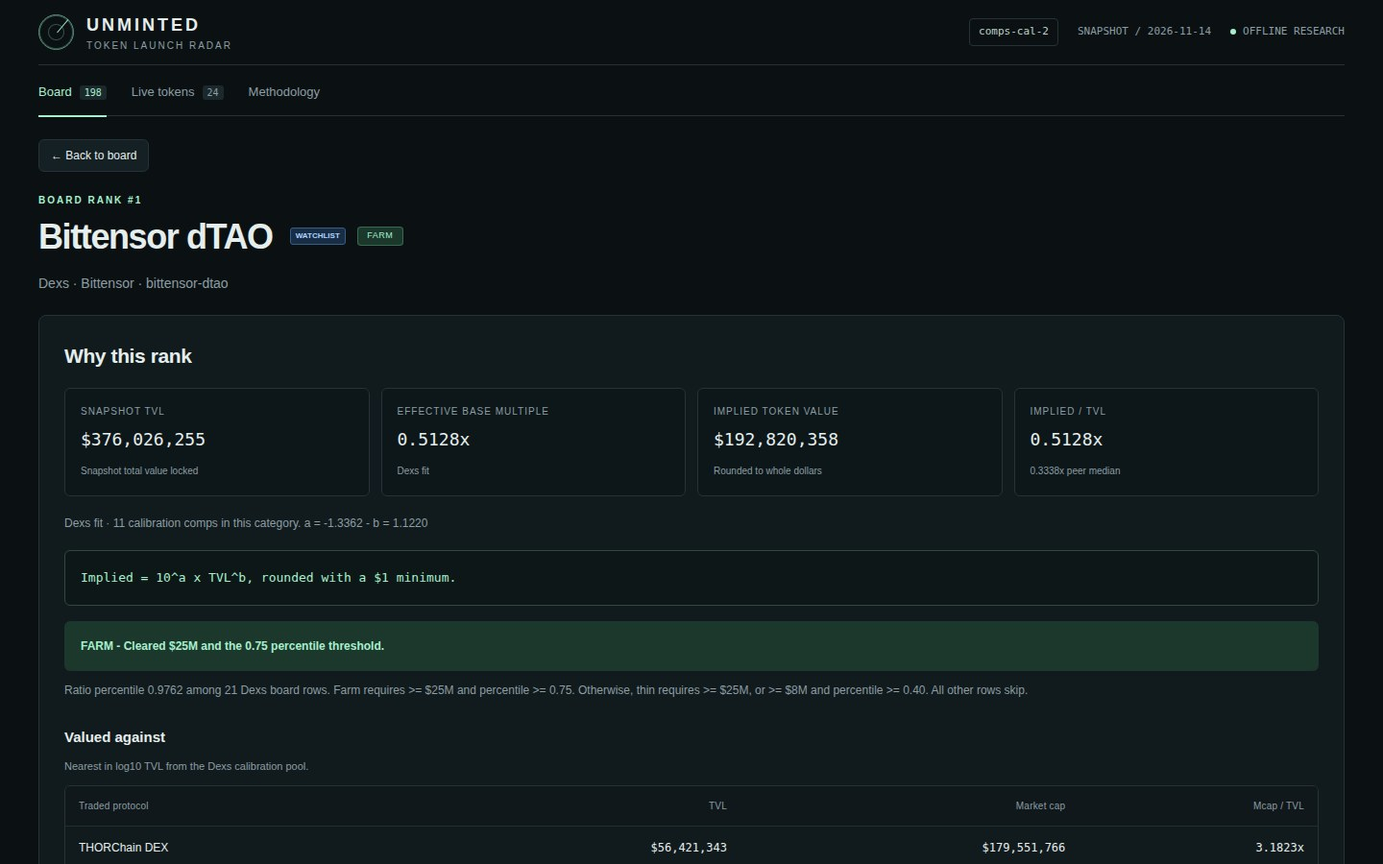
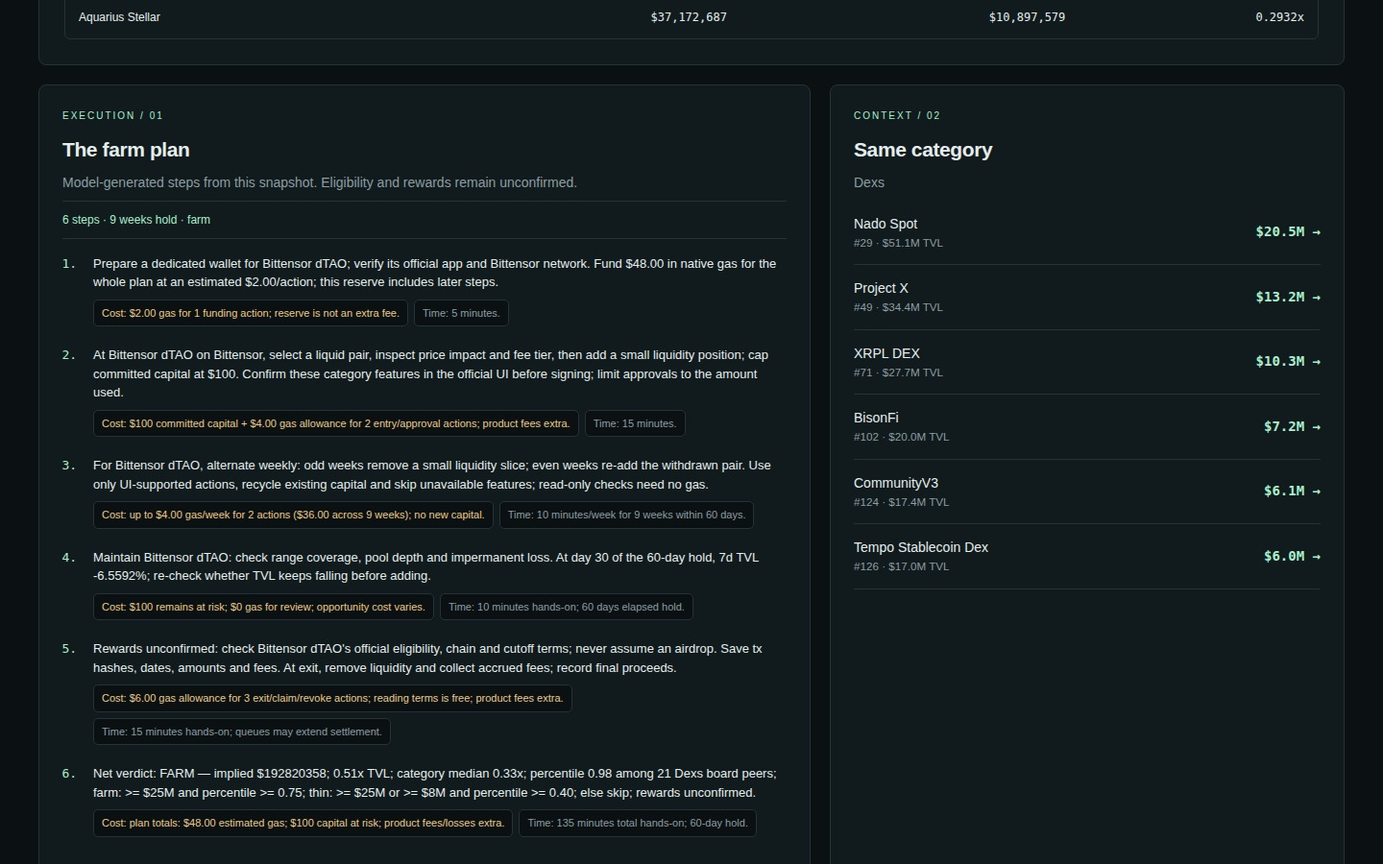
v5: farm playbook rewrite (24 categories, per-chain gas, mid-course review), compare tray + CSV export, farm-panel detail screenshot

diff --git a/dashboard/app.js b/dashboard/app.js
@@ -3,7 +3,7 @@
 const D=window.RADAR, root=document.getElementById('app');
 if(!D){root.textContent='Snapshot data is missing. Run main.ts and open the generated dashboard.';return;}
 const M=D.methodology, P=new URLSearchParams(location.search);
-const state={view:P.get('view')||'board',slug:P.get('slug'),category:P.get('category')||'all',chain:'all',verdict:'all',watch:P.get('watchlist')==='1',q:'',sort:'rank',dir:1};
+const state={view:P.get('view')||'board',slug:P.get('slug'),category:P.get('category')||'all',chain:'all',verdict:'all',watch:P.get('watchlist')==='1',q:'',sort:'rank',dir:1,pins:[]};
 const money=n=>n==null||!Number.isFinite(n)?'—':Math.abs(n)>=1e9?'$'+(n/1e9).toFixed(2)+'B':Math.abs(n)>=1e6?'$'+(n/1e6).toFixed(1)+'M':Math.abs(n)>=1e3?'$'+(n/1e3).toFixed(1)+'K':'$'+n.toFixed(0);
 const exactMoney=n=>n==null||!Number.isFinite(n)?'—':n.toLocaleString('en-US',{style:'currency',currency:'USD',minimumFractionDigits:0,maximumFractionDigits:20});
 const fixedTimes=n=>n.toFixed(4)+'x';
@@ -25,11 +25,38 @@ function head(title,caption){return el('div','section-head',null,el('h2','',titl
 function selectField(label,values,value,change){const sel=el('select');values.forEach(([v,t])=>{const o=el('option','',t);o.value=v;sel.append(o);});sel.value=value;sel.setAttribute('aria-label',label);sel.onchange=()=>change(sel.value);return el('div','field',null,el('label','',label),sel);}
 const categories=[...new Set(D.rows.map(r=>r.category))].sort((a,b)=>String(a).localeCompare(String(b)));
 const chains=[...new Set(D.rows.flatMap(r=>r.chains))].sort();
+function planParts(text){
+const parts={action:''};let key='action',start=0;
+for(const match of String(text||'').matchAll(/\b(Cost|Time)\s*:\s*/gi)){parts[key]=String(text).slice(start,match.index).trim();key=match[1].toLowerCase();start=match.index+match[0].length;}
+parts[key]=String(text||'').slice(start).trim();return parts;
+}
+function planSummary(r){const steps=r.farm_steps||[],text=steps.join(' ');const weeks=text.match(/\b(\d+)\s*weeks?\b/i),days=text.match(/\b(\d+)[ -]days?\s+(?:elapsed\s+)?hold\b/i);return `${steps.length} steps · ${weeks?weeks[1]+' weeks hold':days?Math.ceil(Number(days[1])/7)+' weeks hold':'Hold not specified'} · ${r.verdict}`;}
+function downloadCSV(rows){
+const fields=['rank','name','slug','category','chains','tvl_usd','change_7d','age_days','implied_value_usd','verdict','farm_steps'];
+const quote=value=>'"'+String(value??'').replace(/"/g,'""')+'"';
+const csv=[fields.join(','),...rows.map(r=>fields.map(k=>quote(Array.isArray(r[k])?r[k].join(k==='farm_steps'?' | ':'; '):r[k])).join(','))].join('\r\n');
+const link=document.createElement('a'),objectURL=URL.createObjectURL(new Blob(['\ufeff',csv],{type:'text/csv;charset=utf-8'}));
+link.href=objectURL;link.download='unminted-board.csv';document.body.append(link);link.click();link.remove();setTimeout(()=>URL.revokeObjectURL(objectURL),1000);
+}
+function compareTray(update){
+const tray=el('section','compare-tray');tray.setAttribute('aria-label','Pinned protocol comparison');
+if(!state.pins.length)return tray;
+const clear=button('Clear',()=>{state.pins=[];update();},'board-action');clear.setAttribute('aria-label','Clear all compared protocols');
+tray.append(el('div','compare-heading',null,el('h2','',`Compare · ${state.pins.length} / 3`),clear));
+const cards=el('div','compare-cards');
+state.pins.forEach(slug=>{const r=D.rows.find(r=>r.slug===slug);if(!r)return;
+const remove=button('×',()=>{state.pins=state.pins.filter(s=>s!==slug);update();},'compare-remove');remove.setAttribute('aria-label','Remove '+r.name+' from comparison');
+const card=el('article','compare-card',null,el('div','compare-heading',null,el('h3','',r.name),remove)),facts=el('dl');
+const steps=r.farm_steps||[],cost=planParts(steps[steps.length-1]).cost;
+[['Rank','#'+r.rank],['Category',r.category||'Uncategorized'],['TVL',money(r.tvl_usd)],['7d %',pct(r.change_7d)],['Age',age(r.age_days)],['Implied value',money(r.implied_value_usd)],['Implied / TVL',times(r.implied_value_usd/r.tvl_usd)],['Verdict',r.verdict],['Total plan cost',cost||r.verdict]].forEach(([label,value])=>facts.append(el('div','',null,el('dt','',label),el('dd','',value))));
+card.append(facts);cards.append(card);});tray.append(cards);return tray;
+}
 function board(main){main.append(head('Pre-token board','DEFAULT RANK / IMPLIED VALUE'));const controls=el('div','filters');const search=el('input');search.type='search';search.placeholder='Search protocol or slug…';search.value=state.q;search.setAttribute('aria-label','Search protocol or slug');controls.append(el('div','field',null,el('label','','SEARCH'),search));
-const refresh=()=>{url();update();};controls.append(selectField('CATEGORY',[['all','All categories'],...categories.map(c=>[c??'',c??'Uncategorized'])],state.category,v=>{state.category=v;refresh();}),selectField('CHAIN',[['all','All chains'],...chains.map(c=>[c,c])],state.chain,v=>{state.chain=v;refresh();}),selectField('VERDICT',[['all','All verdicts'],['farm','Farm'],['thin','Thin'],['skip','Skip']],state.verdict,v=>{state.verdict=v;refresh();}));const check=el('input');check.type='checkbox';check.checked=state.watch;check.onchange=()=>{state.watch=check.checked;refresh();};controls.append(el('label','check',null,check,document.createTextNode('Watchlist only')));main.append(controls);const target=el('div');main.append(target);search.oninput=()=>{state.q=search.value;update();};
+const refresh=()=>{url();update();};controls.append(selectField('CATEGORY',[['all','All categories'],...categories.map(c=>[c??'',c??'Uncategorized'])],state.category,v=>{state.category=v;refresh();}),selectField('CHAIN',[['all','All chains'],...chains.map(c=>[c,c])],state.chain,v=>{state.chain=v;refresh();}),selectField('VERDICT',[['all','All verdicts'],['farm','Farm'],['thin','Thin'],['skip','Skip']],state.verdict,v=>{state.verdict=v;refresh();}));const check=el('input');check.type='checkbox';check.checked=state.watch;check.onchange=()=>{state.watch=check.checked;refresh();};controls.append(el('label','check',null,check,document.createTextNode('Watchlist only')));let visibleRows=[];const download=button('Download CSV',()=>downloadCSV(visibleRows),'board-action');download.setAttribute('aria-label','Download filtered and sorted board as CSV');controls.append(download);main.append(controls);const target=el('div');main.append(target);search.oninput=()=>{state.q=search.value;update();};
 function update(){const q=state.q.trim().toLowerCase();let rows=D.rows.filter(r=>(!q||r.name.toLowerCase().includes(q)||r.slug.toLowerCase().includes(q))&&(state.category==='all'||(r.category??'')===state.category)&&(state.chain==='all'||r.chains.includes(state.chain))&&(state.verdict==='all'||r.verdict===state.verdict)&&(!state.watch||r.watchlist));
 const val=r=>state.sort==='ratio'?r.implied_value_usd/r.tvl_usd:state.sort==='chains'?r.chains.join(', '):r[state.sort];rows.sort((a,b)=>{let x=val(a),y=val(b);if(x==null)return y==null?a.rank-b.rank:1;if(y==null)return -1;return (typeof x==='string'?x.localeCompare(y):x-y)*state.dir||a.rank-b.rank;});
-const cols=[['rank','Rank'],['name','Protocol'],['category','Category'],['chains','Chains'],['tvl_usd','TVL'],['change_7d','7d %'],['age_days','Age'],['implied_value_usd','Implied value'],['ratio','Implied / TVL'],['verdict','Verdict']];const table=el('table');const tr=el('tr');cols.forEach(([k,title],i)=>{const th=el('th',i>=4&&i<=8?'numeric':'');th.scope='col';th.setAttribute('aria-sort',state.sort===k?(state.dir===1?'ascending':'descending'):'none');th.append(button(title+(state.sort===k?(state.dir===1?' ↑':' ↓'):' ↕'),()=>{state.dir=state.sort===k?-state.dir:1;state.sort=k;update();}));tr.append(th);});table.append(el('thead','',null,tr));const body=el('tbody');rows.forEach(r=>{const row=el('tr');row.onclick=e=>{if(!e.target.closest('button'))go('detail',r.slug);};const name=button(r.name,()=>go('detail',r.slug));if(r.watchlist)name.append(el('span','wl','WATCHLIST'));name.append(el('span','slug',r.slug));row.append(el('td','rank mono',String(r.rank).padStart(2,'0')),el('td','',null,el('div','protocol',null,el('span','avatar',r.name.slice(0,2).toUpperCase()),name)),el('td','category',r.category||'Uncategorized'),el('td','chains',r.chains.join(' · ')||'—'),el('td','num',money(r.tvl_usd)),el('td','num '+(r.change_7d>=0?'pos':'neg'),pct(r.change_7d)),el('td','num',age(r.age_days)),el('td','num value',money(r.implied_value_usd)),ratioCell(r),el('td','',null,pill(r.verdict)));body.append(row);});table.append(body);const wrap=el('div','table-wrap board-table',null,table);if(!rows.length)wrap.append(el('div','empty','No protocols match these filters. Adjust your search to widen the radar.'));const note=el('div','table-note',null,el('span','mono',`${rows.length} of ${D.board_size} protocols · ${rows.filter(r=>r.watchlist).length} watchlist`),el('span','','Center tick marks the peer median. Select a protocol for valuation evidence & farm plan →'));note.setAttribute('aria-live','polite');target.replaceChildren(wrap,note);}
+visibleRows=rows;
+const cols=[['rank','Rank'],['name','Protocol'],['category','Category'],['chains','Chains'],['tvl_usd','TVL'],['change_7d','7d %'],['age_days','Age'],['implied_value_usd','Implied value'],['ratio','Implied / TVL'],['verdict','Verdict']];const table=el('table');const tr=el('tr');cols.forEach(([k,title],i)=>{const th=el('th',i>=4&&i<=8?'numeric':'');th.scope='col';th.setAttribute('aria-sort',state.sort===k?(state.dir===1?'ascending':'descending'):'none');th.append(button(title+(state.sort===k?(state.dir===1?' ↑':' ↓'):' ↕'),()=>{state.dir=state.sort===k?-state.dir:1;state.sort=k;update();}));tr.append(th);});const compareHeader=el('th','','Compare');compareHeader.scope='col';tr.append(compareHeader);table.append(el('thead','',null,tr));const body=el('tbody');rows.forEach(r=>{const row=el('tr');row.onclick=e=>{if(!e.target.closest('button'))go('detail',r.slug);};const name=button(r.name,()=>go('detail',r.slug));if(r.watchlist)name.append(el('span','wl','WATCHLIST'));name.append(el('span','slug',r.slug));row.append(el('td','rank mono',String(r.rank).padStart(2,'0')),el('td','',null,el('div','protocol',null,el('span','avatar',r.name.slice(0,2).toUpperCase()),name)),el('td','category',r.category||'Uncategorized'),el('td','chains',r.chains.join(' · ')||'—'),el('td','num',money(r.tvl_usd)),el('td','num '+(r.change_7d>=0?'pos':'neg'),pct(r.change_7d)),el('td','num',age(r.age_days)),el('td','num value',money(r.implied_value_usd)),ratioCell(r),el('td','',null,pill(r.verdict)));const pinned=state.pins.includes(r.slug),toggle=button(pinned?'✓ Pinned':'+ Compare',e=>{e.stopPropagation();if(pinned)state.pins=state.pins.filter(s=>s!==r.slug);else if(state.pins.length<3)state.pins.push(r.slug);update();},'compare-toggle');toggle.setAttribute('aria-label',(pinned?'Remove ':'Compare ')+r.name);toggle.setAttribute('aria-pressed',String(pinned));toggle.disabled=!pinned&&state.pins.length>=3;if(toggle.disabled)toggle.title='Remove a pinned protocol to compare another (maximum 3)';row.append(el('td','',null,toggle));body.append(row);});table.append(body);const wrap=el('div','table-wrap board-table',null,table);if(!rows.length)wrap.append(el('div','empty','No protocols match these filters. Adjust your search to widen the radar.'));const note=el('div','table-note',null,el('span','mono',`${rows.length} of ${D.board_size} protocols · ${rows.filter(r=>r.watchlist).length} watchlist`),el('span','','Center tick marks the peer median. Select a protocol for valuation evidence & farm plan →'));note.setAttribute('aria-live','polite');target.replaceChildren(wrap,note,compareTray(update));}
 update();}
 function live(main){main.append(head('The traded universe','MARKET VALUES / '+D.live_size+' DISPLAYED'),el('p','',`These protocols already trade, so we show the market’s own values. They belong to the calibration universe of ${M.calibration_n} comparable tokens; this table is its top-market-cap subset.`));const table=el('table');table.append(el('thead','',null,el('tr','',null,...['Protocol','Category','TVL','Market cap','mcap / TVL','7d %'].map(t=>el('th','',t)))));const body=el('tbody');D.live.forEach(r=>body.append(el('tr','',null,el('td','',r.name),el('td','category',r.category||'Uncategorized'),el('td','num',money(r.tvl_usd)),el('td','num value',money(r.mcap_usd)),el('td','num',times(r.mcap_usd==null?null:r.mcap_usd/r.tvl_usd)),el('td','num '+(r.change_7d>=0?'pos':'neg'),pct(r.change_7d)))));table.append(body);main.append(el('div','table-wrap',null,table));}
 const thresholds='Farm requires >= $25M and percentile >= 0.75. Otherwise, thin requires >= $25M, or >= $8M and percentile >= 0.40. All other rows skip.';
@@ -50,7 +77,7 @@ overview.append(factors,el('p','fit-line',`${fitLabel} · ${fit.category_n} cali
 const comps=el('section','valued-against',null,el('h3','','Valued against'),el('p','caption',`Nearest in log10 TVL from the ${fit.global?'global':category} calibration pool.`));
 const table=el('table','comp-table',null,el('thead','',null,el('tr','',null,...['Traded protocol','TVL','Market cap','Mcap / TVL'].map(t=>el('th','',t)))),el('tbody','',null,...r.nearest_comps.map(c=>el('tr','',null,el('td','',c.name),el('td','num',exactMoney(c.tvl_usd)),el('td','num',exactMoney(c.mcap_usd)),el('td','num',fixedTimes(c.mcap_tvl_ratio))))));
 comps.append(el('div','table-wrap',null,table));overview.append(comps);main.append(overview);
-const grid=el('div','grid');grid.style.marginTop='20px';const plan=el('section','panel',null,el('div','index','EXECUTION / 01'),el('h2','','The farm plan'),el('p','','Model-generated steps from this snapshot. Eligibility and rewards remain unconfirmed.'));const steps=el('ol','steps');(r.farm_steps||[]).forEach(s=>{const i=s.indexOf(' Cost:');steps.append(el('li','',null,document.createTextNode(i<0?s:s.slice(0,i)),i<0?null:el('span','step-cost',s.slice(i+1))));});plan.append(steps);const peers=el('section','panel',null,el('div','index','CONTEXT / 02'),el('h2','','Same category'),el('p','',r.category||'Uncategorized'));const list=D.rows.filter(p=>p.slug!==r.slug&&p.category===r.category).sort((a,b)=>a.rank-b.rank).slice(0,6);list.forEach(p=>{const b=button('',()=>go('detail',p.slug),'peer');b.append(el('span','',null,document.createTextNode(p.name),el('small','','#'+p.rank+' · '+money(p.tvl_usd)+' TVL')),el('span','mono value',money(p.implied_value_usd)+' →'));peers.append(b);});if(!list.length)peers.append(el('p','','No other board protocols in this category.'));grid.append(plan,peers);main.append(grid);}
+const grid=el('div','grid');grid.style.marginTop='20px';const plan=el('section','panel',null,el('div','index','EXECUTION / 01'),el('h2','','The farm plan'),el('p','','Model-generated steps from this snapshot. Eligibility and rewards remain unconfirmed.'));plan.append(el('p','plan-summary',planSummary(r)));const steps=el('ol','steps');(r.farm_steps||[]).forEach(s=>{const parts=planParts(s);steps.append(el('li','',null,document.createTextNode(parts.action),el('div','step-chips',null,parts.cost?el('span','step-cost','Cost: '+parts.cost):null,parts.time?el('span','step-time','Time: '+parts.time):null)));});plan.append(steps);const peers=el('section','panel',null,el('div','index','CONTEXT / 02'),el('h2','','Same category'),el('p','',r.category||'Uncategorized'));const list=D.rows.filter(p=>p.slug!==r.slug&&p.category===r.category).sort((a,b)=>a.rank-b.rank).slice(0,6);list.forEach(p=>{const b=button('',()=>go('detail',p.slug),'peer');b.append(el('span','',null,document.createTextNode(p.name),el('small','','#'+p.rank+' · '+money(p.tvl_usd)+' TVL')),el('span','mono value',money(p.implied_value_usd)+' →'));peers.append(b);});if(!list.length)peers.append(el('p','','No other board protocols in this category.'));grid.append(plan,peers);main.append(grid);}
 function scatter(){const points=M.scatter.points,l=M.scatter.line,xs=points.map(p=>p[0]),ys=points.map(p=>p[1]);const xmin=Math.min(...xs,l.x1),xmax=Math.max(...xs,l.x2),ymin=Math.min(...ys,l.y1,l.y2),ymax=Math.max(...ys,l.y1,l.y2);const x=v=>55+365*(v-xmin)/(xmax-xmin||1),y=v=>225-200*(v-ymin)/(ymax-ymin||1);const box=el('figure','scatter');box.innerHTML=`<svg viewBox="0 0 450 280" role="img" aria-label="Traded comps and global fit"><path d="M55 25V225H420" fill="none" stroke="currentColor"/><g fill="currentColor" font-size="10"><text x="55" y="243">${xmin.toFixed(2)}</text><text x="420" y="243" text-anchor="end">${xmax.toFixed(2)}</text><text x="48" y="225" text-anchor="end">${ymin.toFixed(2)}</text><text x="48" y="30" text-anchor="end">${ymax.toFixed(2)}</text><text x="235" y="270" text-anchor="middle">log10 TVL</text><text transform="translate(12 125) rotate(-90)" text-anchor="middle">log10 market cap</text></g><g fill="var(--mint)" opacity=".55">${points.map(p=>`<circle cx="${x(p[0])}" cy="${y(p[1])}" r="2.4"/>`).join('')}</g><path d="M${x(l.x1)} ${y(l.y1)}L${x(l.x2)} ${y(l.y2)}" stroke="var(--amber)" stroke-width="2"/></svg>`;box.append(el('figcaption','caption','Each dot is one traded comp; the line is the global fit.'));return box;}
 function method(main){main.append(head('Inside the model',M.model_version||D.model_version));const grid=el('div','method');
 function panel(title,...content){const p=el('section','panel',null,el('h2','',title),...content);grid.append(p);return p;}

diff --git a/lib/model.ts b/lib/model.ts
@@ -314,38 +314,72 @@ function select(calibration: SnapshotProtocol[], asOf: string) {
     weight: definition.overlay === 'g50m' ? 0.5 : definition.overlay === 'g25m' ? 0.25 : 0,
     enabled: definition.overlay === 'g50m' || definition.overlay === 'g25m', candidates: candidates.map(reported)};
 }
-/** Category actions describe a small position; the snapshot alone cannot establish reward eligibility. */
-function actionFor(p: SnapshotProtocol, capital: number, chain: string): string {
+/** Category playbooks are conditional on the official UI; snapshot categories do not prove features or rewards. */
+function actionFor(p: SnapshotProtocol, capital: number, chain: string) {
   const c = (p.category ?? '').toLowerCase();
-  const target = `${p.name} on ${chain}`;
-  if (/lend|cdp|collateral/.test(c)) return `Supply $${capital} of eligible collateral through ${target}; check borrowing terms before borrowing`;
-  if (/curator|vault|allocator/.test(c)) return `Deposit $${capital} into an eligible vault at ${target} and retain its shares`;
-  if (/dex|yield|farm/.test(c)) return `Add $${capital} to a supported liquidity or yield position at ${target}`;
-  if (/bridge/.test(c)) return `Transfer $${capital} through ${target} after checking destination liquidity`;
-  if (/stak|restak/.test(c)) return `Stake $${capital} of a supported asset through ${target} and retain the receipt`;
-  if (/perpetual|derivative/.test(c)) return `Fund a $${capital} margin account at ${target} and test a small hedged position`;
-  if (/prediction/.test(c)) return `Fund ${target} with $${capital} and take a small position in a market you understand`;
-  if (/stable/.test(c)) return `Deposit or mint $${capital} of a supported stable asset through ${target}`;
-  if (/rwa|real world/.test(c)) return `Check access requirements and acquire $${capital} of an eligible asset at ${target}`;
-  if (/insurance/.test(c)) return `Compare exclusions and purchase a small cover policy using a $${capital} budget at ${target}`;
-  return `Use $${capital} in a supported deposit position at ${target} after reading its withdrawal terms`;
+  const play = (entry: string, first: string, second: string, maintain: string, exit: string) => ({
+    entry: `At ${p.name} on ${chain}, ${entry}; cap committed capital at $${capital}`,
+    first, second, maintain, exit,
+  });
+  if (/uncollateralized/.test(c)) return play('supply to an eligible credit pool after checking borrower and default terms', 'review borrower repayments', 'review pool utilization', 'check arrears and redemption gates', 'request redemption within the pool notice window');
+  if (/cdp/.test(c)) return play('deposit eligible collateral; inspect liquidation ratio before any optional mint', 'review collateral headroom', 'review debt and stability fees', 'keep debt below the liquidation threshold; avoid leverage', 'repay any minted debt before withdrawing collateral');
+  if (/lend|collateral/.test(c)) return play('supply an eligible asset after checking caps and withdrawal liquidity; leave borrowing disabled', 'withdraw a small slice', 'resupply that slice', 'check utilization, supply rates and collateral settings', 'withdraw supply; repay any debt first');
+  if (/option/.test(c)) return play('inspect expiry and maximum loss; use only a defined-risk option or vault allocation', 'review expiry and exercise terms', 'review premium and settlement quotes', 'track expiry and any vault lockup', 'settle or close before expiry, then redeem available funds');
+  if (/curator|vault|allocator/.test(c)) return play('deposit into a supported vault after inspecting allocations, fees and redemption queues', 'redeem a small share tranche', 'redeposit the redeemed assets', 'track share value, allocation changes and queue length', 'request share redemption and complete any queued claim');
+  if (/liquidity manager|dex/.test(c)) return play('select a liquid pair, inspect price impact and fee tier, then add a small liquidity position', 'remove a small liquidity slice', 're-add the withdrawn pair', 'check range coverage, pool depth and impermanent loss', 'remove liquidity and collect accrued fees');
+  if (/leveraged farm/.test(c)) return play('choose an unlevered farm position if available; inspect debt and liquidation terms', 'review debt exposure', 'review underlying pool liquidity', 'keep leverage disabled and inspect withdrawal penalties', 'unwind the farm and settle any debt before withdrawal');
+  if (/yield|farm/.test(c)) return play('deposit into a supported yield pool after separating base yield from incentives', 'withdraw a small tranche', 'redeposit the withdrawn tranche', 'check reward expiry, deposit fees and withdrawal locks', 'unstake or redeem the position and collect earned balances');
+  if (/bridge/.test(c)) return play('quote a supported route and verify destination liquidity and recipient before transfer', 'review route fees', 'verify destination receipt and finality', 'track pending transfers and destination liquidity', 'quote a return route separately; destination gas is additional');
+  if (/stak|restak/.test(c)) return play('stake a supported asset after checking slashing and unbonding rules; retain the receipt', 'review receipt exchange rate', 'review validator or operator status', 'monitor slashing exposure and unbonding queues', 'request unstaking and claim after the cooldown');
+  if (/perpetual|derivative|basis trading|synthetic/.test(c)) return play('fund supported collateral; size any test trade within the budget and avoid leverage', 'review funding and basis', 'review close quotes and margin headroom', 'check funding costs, liquidation distance and open orders', 'cancel orders, close exposure and withdraw margin');
+  if (/prediction/.test(c)) return play('inspect resolution rules and buy a small position in a market you understand', 'review resolution evidence', 'review an exit quote', 'check market depth and dispute deadlines', 'sell if liquid or redeem after final resolution');
+  if (/nft|marketplace/.test(c)) return play('verify collection or asset identity, royalties and executable bids before a small purchase', 'review comparable executable bids', 'review listing and royalty terms', 'track liquidity; avoid self-trades and inflated floor prices', 'cancel stale listings; sell only against an acceptable bid');
+  if (/gaming|game/.test(c)) return play('use a supported game asset or entry only after checking ownership and refund rules', 'complete a supported gameplay session', 'use a different supported game mode', 'track asset utility and withdrawal restrictions', 'redeem refundable balances and cancel market listings');
+  if (/oracle/.test(c)) return play('inspect a supported data service; allocate only to documented usage or staking', 'inspect feed freshness', 'compare feed deviation against its reference', 'check heartbeat, service charges and any slash conditions', 'cancel service renewals or follow documented unstaking');
+  if (/privacy/.test(c)) return play('test a supported private deposit after checking withdrawal denominations; back up recovery material offline', 'verify deposit status', 'review withdrawal proof requirements', 'retain recovery material and verify withdrawal availability', 'withdraw using the saved recovery material; never share secrets');
+  if (/wallet|infra|chain/.test(c)) return play('verify network settings and use a documented wallet or network feature with a small funded balance', 'send a small transfer between your own addresses', 'test the return transfer', 'check receipts, network status and token approvals', 'return unused balances and revoke unused approvals');
+  if (/social/.test(c)) return play('set up a profile and use a documented paid feature only if useful', 'publish an original post', 'reply meaningfully to another post', 'review permissions and recurring charges', 'cancel renewals and withdraw any refundable balance');
+  if (/\bai\b|artificial intelligence/.test(c)) return play('test a documented agent or inference service; cap prepaid usage and restrict wallet permissions', 'run a small supported inference task', 'evaluate its output on a second task', 'check usage charges and agent spending permissions', 'disable agent permissions and withdraw refundable credits');
+  if (/stable/.test(c)) return play('inspect backing and redemption fees before acquiring or minting a supported stable asset', 'review the redemption quote', 'review backing and peg data', 'track peg deviation and redemption queues', 'redeem through the documented route; settle any mint debt');
+  if (/rwa|real world/.test(c)) return play('check access requirements, issuer exposure and settlement terms before acquiring an eligible asset', 'review issuer disclosures', 'review redemption availability', 'track settlement windows and issuer restrictions', 'submit redemption before the dealing cutoff');
+  if (/insurance/.test(c)) return play('compare exclusions, coverage dates and claim evidence before buying cover within budget', 'review covered exposure', 'review claims and exclusions', 'check coverage expiry and evidence requirements', 'cancel renewal; claim only for a qualifying loss');
+  if (/payment|card/.test(c)) return play('inspect fees and refund terms before funding a supported payment balance', 'make a small useful payment', 'review settlement and refund status', 'track merchant fees and remaining balance', 'withdraw unused funds and cancel recurring payments');
+  if (/index/.test(c)) return play('inspect constituents, rebalance rules and redemption fees before buying index shares', 'review constituent weights', 'review redemption quotes', 'track concentration and rebalance costs', 'redeem shares through the documented route');
+  return play('verify a documented core feature and withdrawal terms before allocating funds; do not assume deposits exist', 'review the core feature receipt', 'review the documented exit quote', 'check permissions, lockups and exit liquidity', 'follow the documented exit and revoke unused approvals');
 }
+/** Planning estimates in USD per action, not live fee quotes. Keys match snapshot chain names. */
+const FARM_GAS: Record<string, number> = {
+  Ethereum: 8, Arbitrum: 0.50, Base: 0.30, Optimism: 0.50, Unichain: 0.30,
+  Linea: 0.50, Scroll: 0.50, 'zkSync Era': 0.50, 'Polygon zkEVM': 0.50,
+  Mantle: 0.30, Blast: 0.50, Mode: 0.50, Metis: 0.50, Soneium: 0.30,
+  'X Layer': 0.30, Ink: 0.30, Fraxtal: 0.30, Boba: 0.50, Morph: 0.50,
+  MegaETH: 0.30, Solana: 0.05, BSC: 0.20, Binance: 0.20, Polygon: 0.20, POLYGON: 0.20,
+};
 function farmSteps(row: BoardRow, defaultAge: number, categoryReference: boolean): string[] {
   const chain = row.chains[0] ?? 'its primary chain';
   const capital = row.tvl_usd >= 5e9 ? 250 : row.tvl_usd >= 1e9 ? 150 : row.tvl_usd >= 1e8 ? 100 : 50;
   const age = row.age_days ?? defaultAge;
   const hold = age < 180 ? 60 : age < 365 ? 45 : 30;
   const weeks = Math.ceil(hold / 7);
-  const gas = capital >= 150 ? 8 : 4;
-  const costs = 3 + gas + 2 * weeks;
+  const gas = Object.hasOwn(FARM_GAS, chain) ? FARM_GAS[chain]! : 2;
+  const prepGas = gas, entryGas = 2*gas, weeklyGas = 2*gas, exitGas = 3*gas;
+  const costs = prepGas+entryGas+weeklyGas*weeks+exitGas;
+  const prepMinutes = 5, entryMinutes = 15, weeklyMinutes = 10, reviewMinutes = 10, exitMinutes = 15;
+  const minutes = prepMinutes+entryMinutes+weeklyMinutes*weeks+reviewMinutes+exitMinutes;
+  const usd = (n: number) => `$${n.toFixed(2)}`;
+  const play = actionFor(row, capital, chain);
+  const trend = row.change_7d === null ? "7d TVL change is unreported; verify on the protocol's own page" :
+    row.change_7d < 0 ? `7d TVL ${row.change_7d}%; re-check whether TVL keeps falling before adding` :
+    row.change_7d > 0 ? `7d TVL +${row.change_7d}%; momentum supports holding if liquidity remains sound` :
+    '7d TVL is flat; verify liquidity before adding';
   const step = (action: string, cost: string, time: string) => `${action}. Cost: ${cost}. Time: ${time}.`;
   return [
-    step(`Prepare a dedicated wallet for ${row.name} and fund gas on ${chain}`, 'about $3 gas plus the position budget', '5 minutes'),
-    step(actionFor(row, capital, chain), `$${capital} committed capital and about $${gas} gas`, '15 minutes'),
-    step(`Review ${row.name}'s activity requirements and perform one supported action on ${chain} each week`, 'budget $2 gas weekly', `10 minutes weekly for ${weeks} weeks`),
-    step(`Maintain the ${row.name} position and monitor withdrawal liquidity`, `$${capital} at risk, with variable opportunity cost`, `${hold} days`),
-    step(`Check ${row.name}'s official rewards terms, log transactions and plan an orderly withdrawal`, 'no fee to read terms; withdrawal gas varies', '10 minutes'),
-    step(`Net verdict: ${row.verdict.toUpperCase()} — implied $${row.implied_value_usd}; ${row.verdict_basis.ratio.toFixed(2)}x TVL; category median ${row.verdict_basis.category_median_ratio.toFixed(2)}x; percentile ${row.verdict_basis.ratio_percentile.toFixed(2)} among ${row.verdict_basis.reference_n} ${categoryReference ? (row.category ?? 'Uncategorized') : 'whole-board'} board peers${categoryReference ? '' : ' (category under 5)'}; farm: >= $25M and percentile >= 0.75; thin: >= $25M or >= $8M and percentile >= 0.40; else skip; rewards unconfirmed`, `roughly $${costs}, excluding capital losses`, `${weeks} weeks`),
+    step(`Prepare a dedicated wallet for ${row.name}; verify its official app and ${chain} network. Fund ${usd(costs)} in native gas for the whole plan at an estimated ${usd(gas)}/action; this reserve includes later steps`, `${usd(prepGas)} gas for 1 funding action; reserve is not an extra fee`, `${prepMinutes} minutes`),
+    step(`${play.entry}. Confirm these category features in the official UI before signing; limit approvals to the amount used`, `$${capital} committed capital + ${usd(entryGas)} gas allowance for 2 entry/approval actions; product fees extra`, `${entryMinutes} minutes`),
+    step(`For ${row.name}, alternate weekly: odd weeks ${play.first}; even weeks ${play.second}. Use only UI-supported actions, recycle existing capital and skip unavailable features; read-only checks need no gas`, `up to ${usd(weeklyGas)} gas/week for 2 actions (${usd(weeklyGas*weeks)} across ${weeks} weeks); no new capital`, `${weeklyMinutes} minutes/week for ${weeks} weeks within ${hold} days`),
+    step(`Maintain ${row.name}: ${play.maintain}. At day ${Math.floor(hold/2)} of the ${hold}-day hold, ${trend}`, `$${capital} remains at risk; $0 gas for review; opportunity cost varies`, `${reviewMinutes} minutes hands-on; ${hold} days elapsed hold`),
+    step(`Rewards unconfirmed: check ${row.name}'s official eligibility, chain and cutoff terms; never assume an airdrop. Save tx hashes, dates, amounts and fees. At exit, ${play.exit}; record final proceeds`, `${usd(exitGas)} gas allowance for 3 exit/claim/revoke actions; reading terms is free; product fees extra`, `${exitMinutes} minutes hands-on; queues may extend settlement`),
+    step(`Net verdict: ${row.verdict.toUpperCase()} — implied $${row.implied_value_usd}; ${row.verdict_basis.ratio.toFixed(2)}x TVL; category median ${row.verdict_basis.category_median_ratio.toFixed(2)}x; percentile ${row.verdict_basis.ratio_percentile.toFixed(2)} among ${row.verdict_basis.reference_n} ${categoryReference ? (row.category ?? 'Uncategorized') : 'whole-board'} board peers${categoryReference ? '' : ' (category under 5)'}; farm: >= $25M and percentile >= 0.75; thin: >= $25M or >= $8M and percentile >= 0.40; else skip; rewards unconfirmed`, `plan totals: ${usd(costs)} estimated gas; $${capital} capital at risk; product fees/losses extra`, `${minutes} minutes total hands-on; ${hold}-day hold`),
   ];
 }
 export function liveRows(snapshot: Snapshot): LiveRow[] {

diff --git a/dashboard/app.css b/dashboard/app.css
@@ -11,3 +11,6 @@
 .method{grid-template-columns:repeat(2,minmax(0,1fr));align-items:start}.method .panel{min-width:0}.funnel{list-style:none;padding:0;display:grid;grid-template-columns:repeat(3,minmax(0,1fr));gap:10px;margin:18px 0}.funnel li{padding:14px 12px;background:#0d171a;border:1px solid var(--line);border-radius:6px}.funnel b{display:block;font-size:27px;color:var(--mint)}.funnel .excluded b{color:var(--amber)}.funnel span{font-size:11px;color:var(--muted)}.exclusions{display:grid;grid-template-columns:repeat(2,minmax(0,1fr));gap:12px 20px;margin:18px 0}.exclusions>div{display:flex;justify-content:space-between;gap:10px;font-size:12px}.exclusions dt{color:var(--muted)}.exclusions dd{margin:0}.selection-metrics{display:grid;grid-template-columns:repeat(2,minmax(0,1fr));border:1px solid var(--line);border-radius:6px;margin:16px 0;background:#0d171a}.selection-metrics .stat{min-width:0}.method details{margin-top:18px;border-top:1px solid var(--line);padding-top:14px}.method summary{color:var(--mint);cursor:pointer;font-weight:650}.method details[open] summary{margin-bottom:14px}.method details .table-wrap{border-top:1px solid var(--line);border-radius:6px}.method details table{margin-top:0}.scatter svg{max-height:310px}
 @media(max-width:850px){.method{grid-template-columns:1fr}.valuation .factors{grid-template-columns:repeat(2,minmax(0,1fr))}.stats{grid-template-columns:repeat(3,minmax(0,1fr))}}
 @media(max-width:600px){.top{height:auto;min-height:68px;padding:14px 0}.hero{padding:20px 0 16px}.stats{grid-template-columns:repeat(2,minmax(0,1fr))}.stat{padding:12px}.section-head{align-items:start;gap:10px;flex-direction:column}.valuation{padding:18px}.valuation .factors{grid-template-columns:1fr}.detail-title{flex-wrap:wrap;gap:8px}.funnel{gap:6px}.funnel li{padding:10px 8px}.funnel b{font-size:23px}.exclusions{grid-template-columns:1fr}.selection-metrics .stat-value{font-size:21px}.table-note,.footer{flex-direction:column;gap:8px}.board-table{max-height:65vh}}
+
+/* Board comparison and execution details. */
+.board-action,.compare-toggle,.compare-remove{padding:7px 10px;font-size:11px;white-space:nowrap}.board-action{min-height:36px}.compare-toggle[aria-pressed=true]{color:var(--mint);border-color:var(--mint);background:var(--panel)}button:disabled{cursor:not-allowed;opacity:.45}.compare-tray:not(:empty){margin-top:12px;padding:20px;border:1px solid var(--line);border-radius:8px;background:var(--panel)}.compare-heading{display:flex;justify-content:space-between;align-items:center;gap:12px}.compare-heading h2,.compare-heading h3{margin:0}.compare-cards{display:grid;grid-template-columns:repeat(3,minmax(0,1fr));gap:14px;margin-top:16px}.compare-card{padding:16px;border:1px solid var(--line);border-radius:6px;min-width:0}.compare-card h3{color:var(--mint);overflow-wrap:anywhere}.compare-remove{font-size:18px;line-height:1;padding:6px 10px}.compare-card dl{margin:14px 0 0;font-size:12px}.compare-card dl>div{display:flex;justify-content:space-between;gap:12px;padding:6px 0;border-top:1px solid var(--line)}.compare-card dt{color:var(--muted)}.compare-card dd{margin:0;text-align:right;overflow-wrap:anywhere}.compare-card dl>div:last-child{display:block}.compare-card dl>div:last-child dd{text-align:left;margin-top:5px;color:var(--amber)}.plan-summary{color:var(--mint);font-size:12px;padding:10px 0;border-block:1px solid var(--line)}.step-chips{display:flex;flex-wrap:wrap;gap:6px;margin-top:8px}.step-cost,.step-time{display:inline-block;margin:0;padding:5px 8px;border:1px solid var(--line);border-radius:5px;background:var(--bg);font-size:11px;color:var(--amber)}.step-time{color:var(--muted)}@media(max-width:700px){.compare-cards{grid-template-columns:1fr}.compare-tray:not(:empty){padding:14px}}
